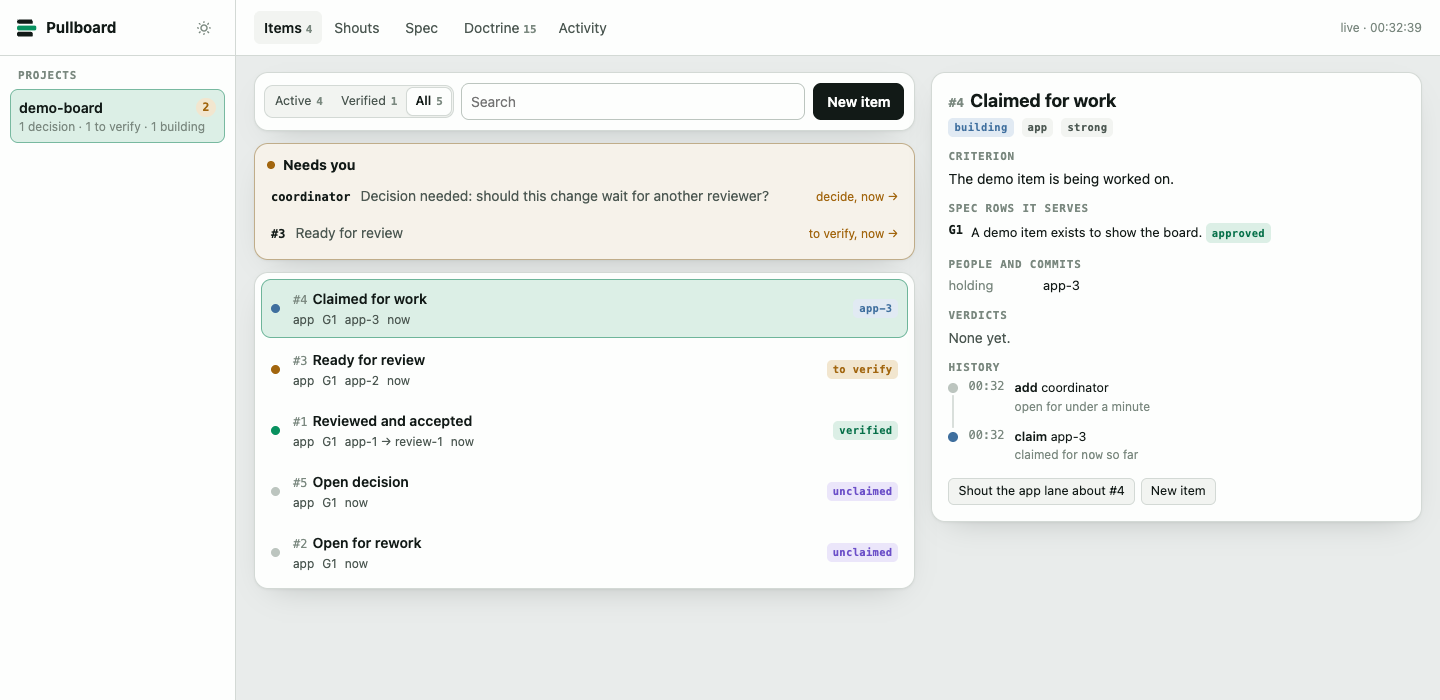
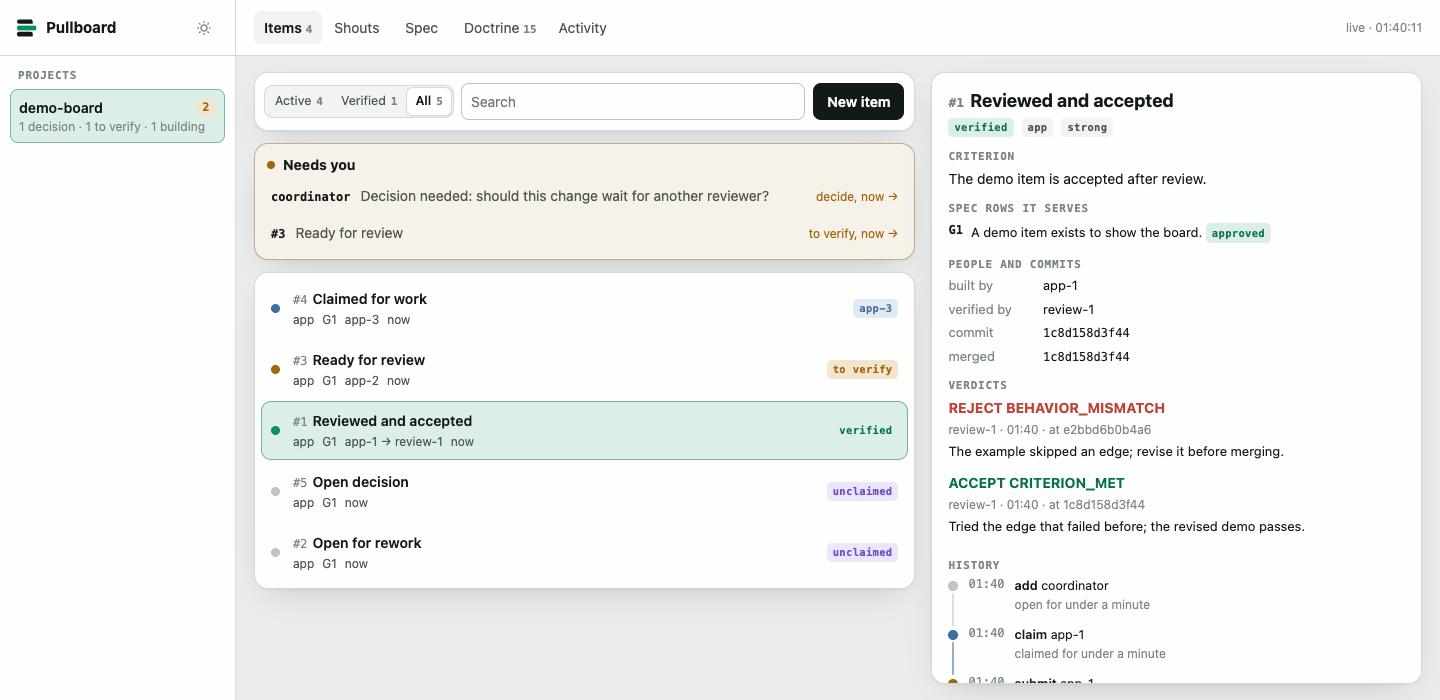
docs(shots): make board and tour captures reliable [I11,I13]

diff --git a/docs/shots/shots.test.js b/docs/shots/shots.test.js
@@ -35,6 +35,7 @@ test('the demo assets exist and stay within their size budgets [I11,I13]', () =>
   assert.ok(statSync(shots('tour.svg')).size < 200_000, 'tour SVG is under 200 KB');
   const tour = readFileSync(shots('tour.svg'), 'utf8');
   assert.match(tour, /<animate attributeName="opacity"/, 'tour lines appear on a timed animation');
+  assert.doesNotMatch(tour, /[\x00-\x08\x0b-\x1f]/, 'tour SVG contains no XML-invalid control characters');
 });
 
 test('the demo rebuild script uses a temporary repo and isolated home [I11,I13]', () => {
@@ -42,4 +43,7 @@ test('the demo rebuild script uses a temporary repo and isolated home [I11,I13]'
   assert.match(script, /mkdtemp\(join\(tmpdir\(\)/);
   assert.match(script, /PULLBOARD_HOME: home/);
   assert.match(script, /process\.execPath, \[BIN, 'init'\]/);
+  assert.match(script, /'withdraw', '6'/, 'the fixture includes the withdrawn state');
+  assert.match(script, /data-item=\\\\?"1\\\\?"/, 'the screenshot selects the accepted item with a quoted id');
+  assert.match(script, /if \(response\.exceptionDetails\) throw/, 'browser script errors fail instead of silently capturing the wrong view');
 });
